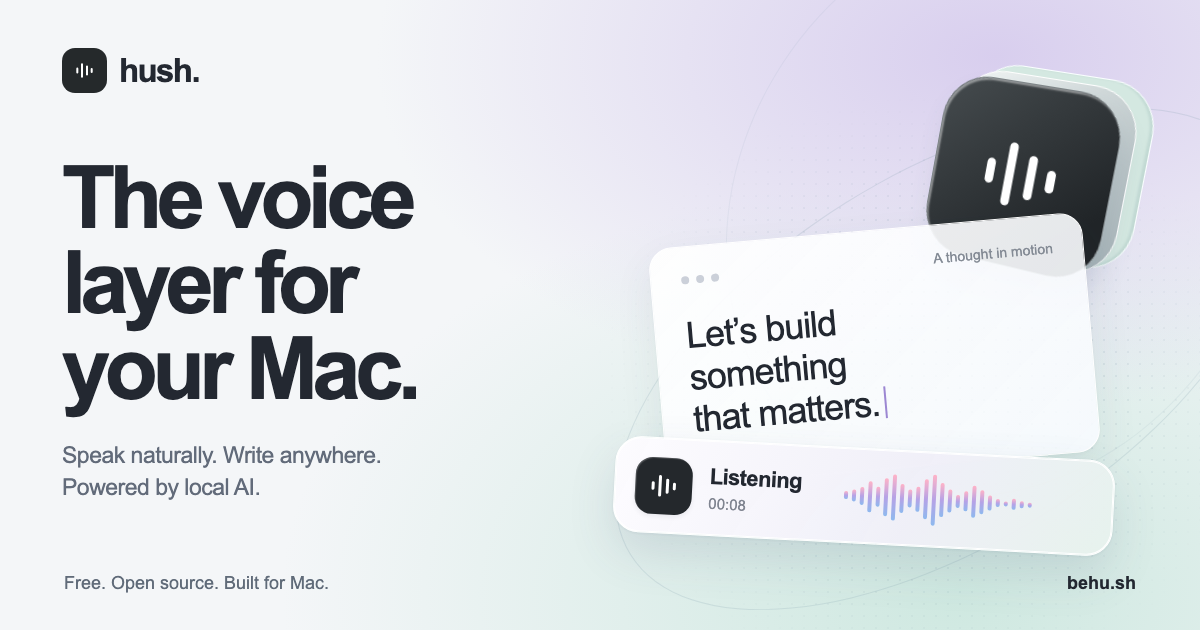
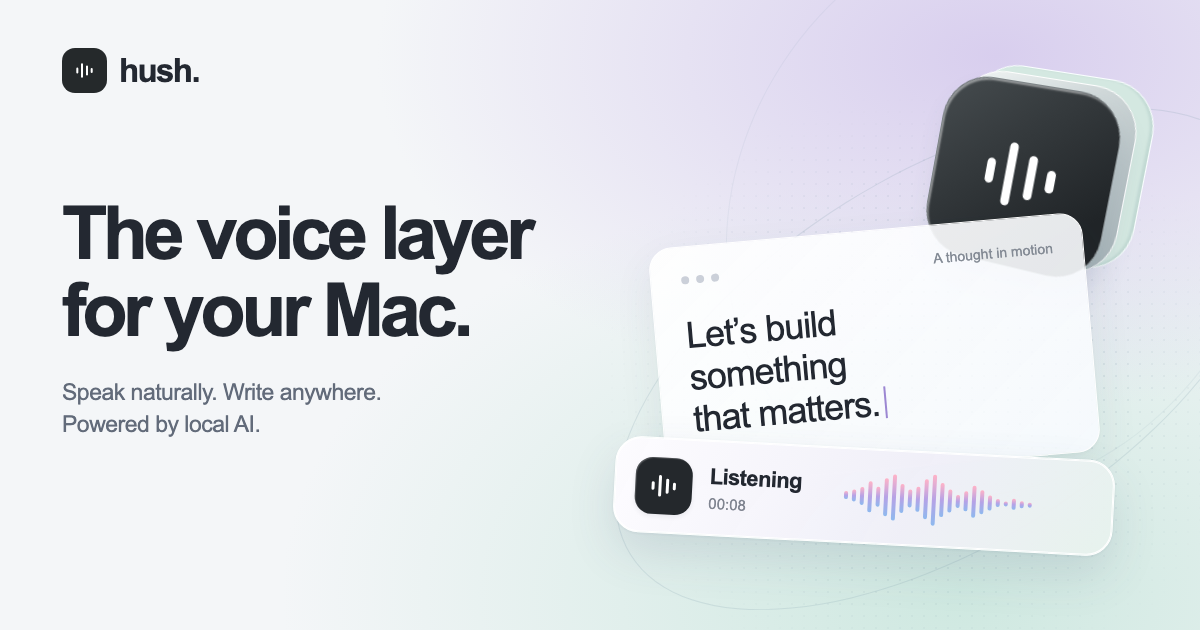
fix(web): refine social preview hierarchy (#8)
The shared-link cards gave the headlines too much space and repeated
small text in both bottom corners. Use a consistent, smaller two-line
heading on each card, move the copy into balance with the mockup, and
remove the footer copy and bottom-right domain.

Regenerated both 1200 x 630 PNGs from the existing HTML/CSS source. No
generated imagery, dependencies, or runtime rendering were added.

Validation: visually reviewed both rendered cards; type checking,
production build, 17 backend tests, and the OpenAPI drift check passed.
Browser journeys: 155 passed, with the existing intentional mobile-hover
skip.

Changed region(s): [[0.0308, 0.2413, 0.4625, 0.7841], [0.0617, 0.9048, 0.2775, 0.9349], [0.8942, 0.9048, 0.9558, 0.9349]]

diff --git a/webapp/scripts/social-card.html b/webapp/scripts/social-card.html
@@ -17,11 +17,9 @@
     .orbit.second { width: 520px; height: 610px; left: 740px; top: -100px; transform: rotate(33deg); opacity: .5; }
     .brand { position: absolute; top: 48px; left: 62px; display: flex; align-items: center; gap: 12px; font-size: 33px; font-weight: 700; letter-spacing: -1.6px; }
     .brand .mark { width: 45px; height: 45px; padding: 10px; border-radius: 13px; background: #25292b; color: white; }
-    .copy { position: absolute; left: 62px; top: 155px; width: 590px; }
-    h1 { margin: 0; font-size: 87px; line-height: .98; font-weight: 600; letter-spacing: -5.8px; }
-    .description { margin: 28px 0 0; color: var(--muted); font-size: 23px; line-height: 1.4; letter-spacing: -.5px; }
-    .footer { position: absolute; left: 64px; right: 64px; bottom: 36px; display: flex; justify-content: space-between; align-items: center; font-size: 18px; color: #606b79; }
-    .footer strong { font-weight: 600; color: var(--ink); }
+    .copy { position: absolute; left: 62px; top: 196px; width: 535px; }
+    h1 { margin: 0; font-size: 74px; line-height: 1.04; font-weight: 600; letter-spacing: -4.4px; }
+    .description { margin: 26px 0 0; color: var(--muted); font-size: 23px; line-height: 1.4; letter-spacing: -.5px; }
     .sculpture { position: absolute; top: 83px; right: 88px; width: 185px; height: 185px; transform: perspective(650px) rotateY(-15deg) rotateZ(11deg); }
     .layer, .face { position: absolute; inset: 0; border-radius: 47px; }
     .layer.back { transform: translate(29px, -16px); background: #d4e8e1; border: 1px solid #faffff; box-shadow: inset -3px 0 2px #98b9b549; }
@@ -55,9 +53,6 @@
     body[data-page="verified"] .home { display: none; }
     body[data-page="verified"] .proof { display: block; }
     body[data-page="verified"] .private-link.proof { display: flex; }
-    body[data-page="verified"] h1 { font-size: 80px; line-height: 1.01; letter-spacing: -5px; }
-    body[data-page="verified"] .copy { top: 167px; }
-    body[data-page="verified"] .description { margin-top: 26px; }
   </style>
 </head>
 <body data-page="home">
@@ -67,8 +62,8 @@
   <main class="card">
     <div class="atmosphere"></div><div class="dots"></div><div class="orbit"></div><div class="orbit second"></div>
     <div class="brand"><svg class="mark"><use href="#hush-mark"/></svg>hush.</div>
-    <div class="copy home"><h1>The voice<br>layer for<br>your Mac.</h1><p class="description">Speak naturally. Write anywhere.<br>Powered by local AI.</p></div>
-    <div class="copy proof"><h1>Give your words<br>their story<br>back.</h1><p class="description">Share a private link.<br>Keep the signed history.</p></div>
+    <div class="copy home"><h1>The voice layer<br>for your Mac.</h1><p class="description">Speak naturally. Write anywhere.<br>Powered by local AI.</p></div>
+    <div class="copy proof"><h1>Give your words<br>their story back.</h1><p class="description">Share a private link.<br>Keep the signed history.</p></div>
     <div class="sculpture"><div class="layer back"></div><div class="layer middle"></div><div class="face"><svg><use href="#hush-mark"/></svg></div></div>
     <div class="note home">
       <div class="note-toolbar"><i class="window-dot"></i><i class="window-dot"></i><i class="window-dot"></i><span>A thought in motion</span></div>
@@ -87,7 +82,6 @@
       <div class="history"><span><b>✓</b> Voice captured</span><span><b>✓</b> Edits recorded</span><span><b>✓</b> Signed</span></div>
     </div>
     <div class="private-link proof"><svg viewBox="0 0 24 24" fill="none" stroke="currentColor" stroke-width="1.7"><rect x="5" y="10" width="14" height="11" rx="3"/><path d="M8 10V7a4 4 0 0 1 8 0v3M12 14v3"/></svg>A private link. A signed story.</div>
-    <div class="footer"><span class="home">Free. Open source. Built for Mac.</span><span class="proof">Verified Messages by hush</span><strong>behu.sh</strong></div>
   </main>
 </body>
 </html>
